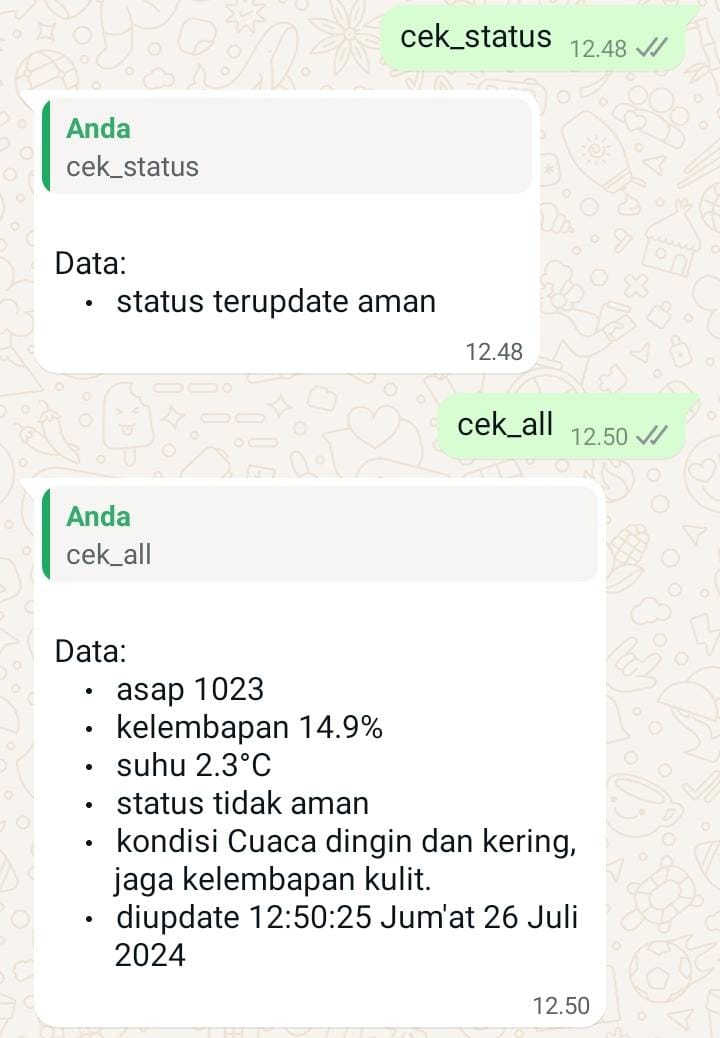
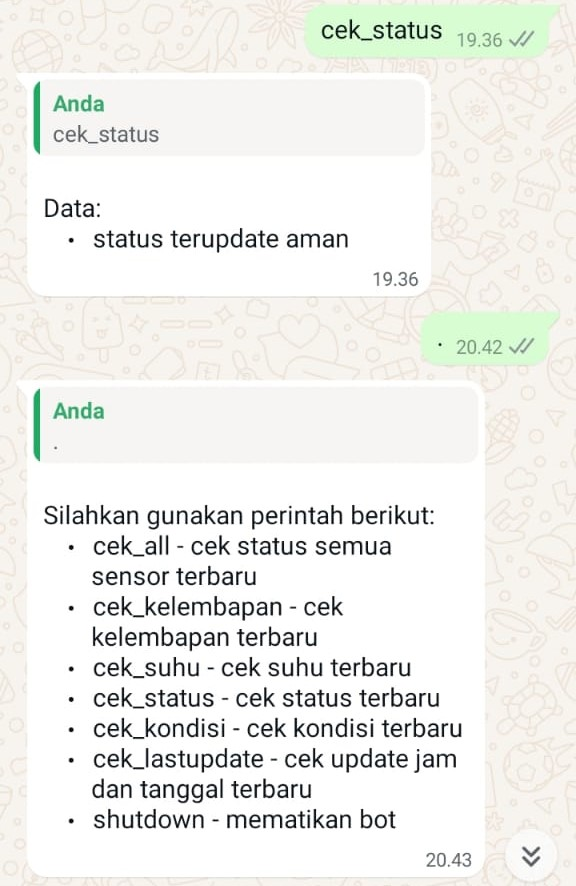
done

diff --git a/services/notif.js b/services/notif.js
@@ -1,19 +1,12 @@
 const { Client, LocalAuth } = require("whatsapp-web.js");
-const path = require("path");
-const shell = require("shelljs");
 const { NUMBER, WARNING_MESSAGE } = require("../config/envConfig");
-const { fireEnv } = require("../model/firebaseConfig");
-const sessDir = "config/session";
-const newsessDir = "config/botsession";
-const defaultSes = path.resolve(__dirname, "..", sessDir);
-const sessionCfg = path.resolve(__dirname, "..", newsessDir);
+const { fireEnv } = require("../config/firebaseConfig");
+const { botsessionChecker } = require("./session");
+const sessionCfg = botsessionChecker();
 
-if (shell.test("-d", defaultSes)) {
-  shell.rm("-rf", sessionCfg);
-  shell.cp("-r", defaultSes, sessionCfg);
-  console.log("Berhasil membuat botsession");
-} else {
-  console.error("Folder session belum ada");
+if (!sessionCfg) {
+  console.error("Folder session tidak ditemukan!");
+  process.exit(1);
 }
 
 const client = new Client({
@@ -27,7 +20,6 @@ const client = new Client({
 });
 
 const initializeClient = () => {
-  client.initialize();
   client.on("ready", () => {
     setInterval(() => {
       let db = fireEnv.database();
@@ -35,12 +27,13 @@ const initializeClient = () => {
 
       userRef.once("value", (snap) => {
         const snapshot = snap.val();
-        console.log(snapshot.status);
         if (snapshot.status !== "aman") {
           console.log("Status tidak aman, mengirim pesan ke +", NUMBER);
           const message = `${WARNING_MESSAGE}`;
           const number = `${NUMBER}@c.us`;
           sendMessage(number, message);
+        } else {
+          console.log(snapshot.status);
         }
       });
     }, 1000);
@@ -69,6 +62,4 @@ const sendMessage = (number, message) => {
     });
 };
 
-module.exports = {
-  initializeClient,
-};
+module.exports = { client, initializeClient };

diff --git a/services/pesan.js b/services/pesan.js
@@ -1,8 +1,7 @@
 const { Client, LocalAuth } = require("whatsapp-web.js");
-const db = require("../model/data");
-const path = require("path");
-const sessDir = "config/session";
-const sessionCfg = path.resolve(__dirname, '..', sessDir);
+const { defsessionChecker, deldefsessionChecker } = require("./session")
+const db = require("../model/dataModel");
+const sessionCfg = defsessionChecker();
 
 const client = new Client({
   authStrategy: new LocalAuth({
@@ -66,6 +65,16 @@ const handleMsg = async (message) => {
       }
       break;
     }
+    case "shutdown": {
+      try {
+        reply = "Bot dimatikan";
+        process.exit(1);
+      } catch (error) {
+        reply = "Terjadi kesalahan saat mematikan bot.";
+      }
+      deldefsessionChecker();
+      break;      
+    }
     default:
       const bantuan = `
 Silahkan gunakan perintah berikut:
@@ -75,12 +84,14 @@ Silahkan gunakan perintah berikut:
 - cek_status - cek status terbaru
 - cek_kondisi - cek kondisi terbaru
 - cek_lastupdate - cek update jam dan tanggal terbaru
+- shutdown - mematikan bot
         `;
       reply = bantuan;
       break;
   }
   message.reply(reply);
-  console.log("Mengirim pesan ke", message.from);
+  const number = message.from;
+  console.log("Mengirim pesan ke +" + number.replace(/@.*\.us$/, ''));
 };
 
 module.exports = { client, handleMsg };

diff --git a/services/session.js b/services/session.js
@@ -1,0 +1,46 @@
+const path = require("path");
+const shell = require("shelljs");
+const sessDir = "config/session";
+const newsessDir = "config/botsession";
+const defaultCfg = path.resolve(__dirname, "..", sessDir);
+const sessionCfg = path.resolve(__dirname, "..", newsessDir);
+
+const deldefsessionChecker = () => {
+  if (shell.test("-d", defaultCfg)) {
+    if (shell.test("-d", sessionCfg)) {
+      shell.rm("-rf", defaultCfg);
+      shell.rm("-rf", sessionCfg);
+    }
+    shell.rm("-rf", defaultCfg);
+  }
+};
+
+const botsessionChecker = () => {
+  if (shell.test("-d", defaultCfg)) {
+    if (shell.test("-d", sessionCfg)) {
+      shell.rm("-rf", sessionCfg);
+    }
+    shell.cp("-r", defaultCfg, sessionCfg);
+    return sessionCfg;
+  } else if (shell.test("-d", sessionCfg)) {
+    shell.rm("-rf", sessionCfg);
+    return sessionCfg;
+  } else {
+    return sessionCfg;
+  }
+};
+
+const defsessionChecker = () => {
+  if (shell.test("-d", defaultCfg)) {
+    shell.rm("-rf", defaultCfg);
+    return defaultCfg;
+  } else {
+    return defaultCfg;
+  }
+};
+
+module.exports = {
+  botsessionChecker,
+  defsessionChecker,
+  deldefsessionChecker
+};

diff --git a/controller/autobotController.js b/controller/autobotController.js
@@ -1,9 +1,29 @@
-const { initializeClient } = require('../services/notif');
+const { client, initializeClient } = require("../services/notif");
+const {
+  logEvent,
+  qrnotif,
+  handleAuthFailure,
+  handleDisconnection
+} = require("../middleware/logger");
 
-const startBot = () => {
-  initializeClient();
-};
+const { showQR } = require("../view/qrCode");
+
+client.on("qr", (qr) => {
+  qrnotif();
+  showQR(qr);
+});
+
+client.on("authenticated", logEvent("Otentikasi berhasil"));
+
+client.on("auth_failure", handleAuthFailure);
+
+client.on("ready", logEvent("Siap digunakan"));
+
+client.on("disconnected", handleDisconnection);
 
 module.exports = {
-  startBot,
+  startBot: () => {
+    client.initialize();
+    initializeClient();
+  }
 };

diff --git a/config/firebaseConfig.js b/config/firebaseConfig.js
@@ -1,9 +1,21 @@
-require("../config/envConfig");
+require("./envConfig");
 const { DATABASEURL, AUTHDOMAIN, ENV_DEV, ENV_BOT } = process.env;
 const firebaseAdmin = require("firebase-admin");
-let ServiceAccount = require("../config/secret.json");
+let ServiceAccount = require("./secret.json");
+let isempty = false;
 
 const initFirebase = (env) => {
+  for (const key in ServiceAccount) {
+    if (ServiceAccount[key] === "") {
+      isempty = true;
+    }
+  }
+  
+  if (isempty) {
+    console.log("Mohon isi file secret.json dengan benar");
+    process.exit(1);
+  }
+
   const appEnv = env === ENV_DEV ? ENV_BOT : ENV_DEV;
   if (appEnv === ENV_DEV) {
     return firebaseAdmin.initializeApp(

diff --git a/app/autobot.js b/app/autobot.js
@@ -1,12 +1,15 @@
+require('../config/envConfig');
 const express = require("express");
 const app = express();
-const { startBot } = require("../controller/autobotController");
-const { PORT_BOT, ENV_BOT } = require('../config/envConfig');
+const { startBot, initializeClient } = require("../controller/autobotController");
+const { PORT_BOT, ENV_BOT } = process.env;
 process.env.NODE_ENV = ENV_BOT;
 process.env.PORT = PORT_BOT;
 let env = process.env.NODE_ENV;
 let port = process.env.PORT;
+
 startBot();
+initializeClient;
 
 app.listen(port, () => {
   console.log(`Server berjalan pada:\n- Environment: ${env}\n- Port: ${port}`);

diff --git a/controller/chatbotController.js b/controller/chatbotController.js
@@ -1,12 +1,16 @@
 const { client, handleMsg } = require("../services/pesan");
 const {
   logEvent,
+  qrnotif,
   handleAuthFailure,
-  handleDisconnection,
+  handleDisconnection
 } = require("../middleware/logger");
 
+const { showQR } = require('../view/qrCode');
+
 client.on("qr", (qr) => {
-  qrCode.showQR(qr);
+  qrnotif();
+  showQR(qr);
 });
 
 client.on("authenticated", logEvent("Otentikasi berhasil"));
@@ -22,5 +26,5 @@ client.on("message", (message) => {
 client.on("disconnected", handleDisconnection);
 
 module.exports = {
-  run: () => client.initialize(),
+  run: () => client.initialize()
 };

diff --git a/middleware/logger.js b/middleware/logger.js
@@ -1,7 +1,11 @@
 const logEvent = (eventName) => {
   return (data) => {
-    console.log(`${eventName}`, data);
-  };
+    console.log(`${eventName}`);
+  }
+};
+
+const qrnotif = () => {
+  console.log("Generate QR code");
 };
 
 const handleAuthFailure = (msg) => {
@@ -10,10 +14,12 @@ const handleAuthFailure = (msg) => {
 
 const handleDisconnection = (reason) => {
   console.log("Memutuskan koneksi:", reason);
+  process.exit(1);
 };
 
 module.exports = {
   logEvent,
+  qrnotif,
   handleAuthFailure,
   handleDisconnection
 };

diff --git a/config/envConfig.js b/config/envConfig.js
@@ -1,11 +1,18 @@
 const fs = require('fs');
 const path = require('path');
 const dotenv = require('dotenv');
+const scanEnv = require("scan-env");
 const envFile = '.env';
+const scanResult = scanEnv();
 const envPath = path.resolve(__dirname, '..', envFile);
 if (fs.existsSync(envPath)) {
   dotenv.config({ path: envPath });
 } else {
   console.error(`File ${envFile} tidak ditemukan!`);
+  process.exit(1);
+}
+
+if (!scanResult) {
+  console.error("Environment variables are missing.");
   process.exit(1);
 }

diff --git a/model/dataModel.js b/model/dataModel.js
@@ -1,8 +1,8 @@
-const { fireEnv } = require('../config/envConfig');
+const { fireEnv } = require('../config/firebaseConfig');
 let db = fireEnv.database();
 let userRef = db.ref("data");
 
-const data = {
+const data = { 
   getAll() {
     return new Promise((resolve, reject) => {
       userRef.once("value", function (snap) {

diff --git a/app/app.js b/app/app.js
@@ -1,4 +1,4 @@
-require("../model/envConfig");
+require("../config/envConfig");
 const express = require("express");
 const { run } = require("../controller/chatbotController");
 const events = require("events");
